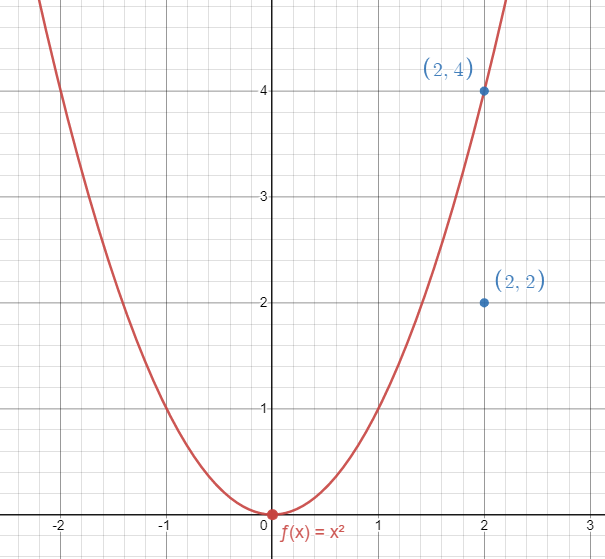
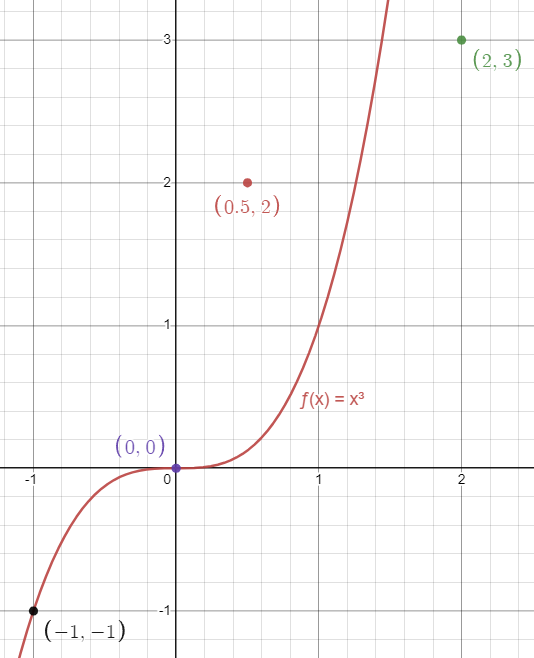
Maj functionquiz + js/images

Changed region(s): [[0.0, 0.0, 1.0, 1.0]]

diff --git a/QuizFonction.html b/QuizFonction.html
@@ -26,31 +26,31 @@
                     <div class="question bg-white p-3 border-bottom">
                         <div class="d-flex flex-row align-items-center question-title">
                             <h3 class="text-danger" id="questionNum">Q.1</h3>
-                            <h5 class="mt-1 ml-2" id="question">Quel point appartient à la fonction ci-contre</h5>
-                            <img src=Images/fct1.png>
+                            <h5 class="mt-1 ml-2" id="question">Donnez tous les points appartenant au graphe !</h5>
+                            <img id="img" src=Images/fct1.png>
                         </div>
                         <div class="ans ml-2">
                             <label class="radio">
                                 <input id="input0" type="radio" name="question">
-                                <span id="radio0">9</span>
+                                <span id="radio0">(0,0)</span>
                             </label>
                         </div>
                         <div class="ans ml-2">
                             <label class="radio">
                                 <input id="input1" type="radio" name="question">
-                                <span id="radio1">27</span>
+                                <span id="radio1">(2,3) et (0,0)</span>
                             </label>
                         </div>
                         <div class="ans ml-2">
                             <label class="radio">
                                 <input id="input2" type="radio" name="question">
-                                <span id="radio2">6</span>
+                                <span id="radio2">(-1,-1) et (½,2)</span>
                             </label>
                         </div>
                         <div class="ans ml-2">
                             <label class="radio">
                                 <input id="input3" type="radio" name="question">
-                                <span id="radio3">1</span>
+                                <span id="radio3">(0,0) et (-1,-1)</span>
                             </label>
                         </div>
                     </div>
@@ -70,9 +70,9 @@
     </div>
 
     <script>
-        var reponse = [["9", "27", "6", "1"], ["2^5", "2^2.5", "2^6", "2^9"], ["6^2", "4^9", "2^9", "2^6"], ["64/2", "√64", "2^8", "32^1"], ["20.25", "9", "3", "324"]]
-        var question = ["Que vaut 3^3 = ?", "Comment peut-on réduire 2^2 * 2^3 ?", "(2^3)^2 peut aussi s'écrire :", "64^(1/2) peut aussi s'écrire :", "Que vaut 81^(1/4) ?"]
-        var solution = [1, 0, 3, 1, 2]
+        var reponse = [["(0,0)", "(2,3) et (0,0)", "(-1,-1) et (½,2)", "(0,0) et (-1,-1)"], ["2", "4", "(2,2)", "(2,4)"], ["", "", "", ""], ["64/2", "√64", "2^8", "32^1"], ["20.25", "9", "3", "324"]]
+        var question = ["Donnez tous les points appartenant au graphe !", "Quelle est l'image de 2 par ƒ(x) ?", "", "", ""]
+        var solution = [3, 1, 3, 1, 2]
         function next() {
             var value = document.getElementById("nextButton").value;
             value++
@@ -83,6 +83,7 @@
             document.getElementById("span").textContent = "(" + value + " sur 5)";
             document.getElementById("question").textContent = question[value - 1];
             document.getElementById("questionNum").textContent = "Q." + value;
+            document.getElementById("img").src = "Images/fct" + value + ".png";
             document.getElementById("nextButton").value = value;
         }
         function previous() {
@@ -95,6 +96,7 @@
             document.getElementById("span").textContent = "(" + value + " sur 5)";
             document.getElementById("question").textContent = question[value - 1];
             document.getElementById("questionNum").textContent = "Q." + value;
+            document.getElementById("img").src = "Images/fct" + value + ".png";
             document.getElementById("nextButton").value = value;
         }
     </script>

diff --git a/index.html b/index.html
@@ -8,7 +8,7 @@
     <link href="https://cdn.jsdelivr.net/npm/bootstrap@5.1.3/dist/css/bootstrap.min.css" rel="stylesheet">
 
     <link href="https://cdnjs.cloudflare.com/ajax/libs/font-awesome/6.0.0/css/all.min.css" rel="stylesheet" />
-    <title>A la découverte des mathématiques</title>
+    <title>À la découverte des mathématiques</title>
 </head>
 
 <body>
@@ -19,7 +19,7 @@
             <!-- ajouter l'ajustement pour compléter la page sur les écrans medium et large et que ce container prenne toute la largeur dans les petits écrans-->
 
             <nav class="navbar navbar-expand-sm bg-warning navbar-dark " style="padding-left: 2%;">
-                <a class="navbar-brand" href="#"> A la découverte des mathématique </a>
+                <a class="navbar-brand" href="#"> À la découverte des mathématique </a>
 
                 <button class="navbar-toggler" type="button" data-bs-toggle="collapse" data-bs-target="#navbarText">
                     <span class="navbar-toggler-icon"></span>
@@ -69,7 +69,7 @@
 <div style="padding-left: 3%;padding-right: 3%; padding-top: 3%;background-color: #001220; padding-bottom: 5%;" >
     <p class="h2" style="color: aliceblue;">Modules d'apprentissage pour la première secondaire</p>
         <div class="row row-cols-2 row-cols-md-3 g-4" style="margin-top: 5%;">
-            <div class="col"  onclick = "window.location = 'quizInverse.html'">
+            <div class="col"  onclick = "window.location = 'QuizInverse.html'">
               <div class="shadow card h-100" >
                 <img src="Images/comment-trouver-inverse-fraction-nombre.jpg" class="card-img-top" alt="Image illustrative pour les inverses"/>
                 <div class="card-body">
@@ -80,7 +80,7 @@
                 </div>
               </div>
             </div>
-            <div class="col"  onclick = "window.location = 'quizExposant.html'">
+            <div class="col"  onclick = "window.location = 'QuizExposant.html'">
               <div class="shadow card h-100">
                 <img src="Images/exposants.jpg" class="card-img-top" alt="Image illustrative pour les exposants"/>
                 <div class="card-body">
@@ -89,7 +89,7 @@
                 </div>
               </div>
             </div>
-            <div class="col">
+            <div class="col" onclick = "window.location = 'QuizFonction.html'">
               <div class="shadow card h-100">
                 <img src="Images/fonction.png" class="card-img-top" alt="Los Angeles Skyscrapers"/>
                 <div class=" card-body">
